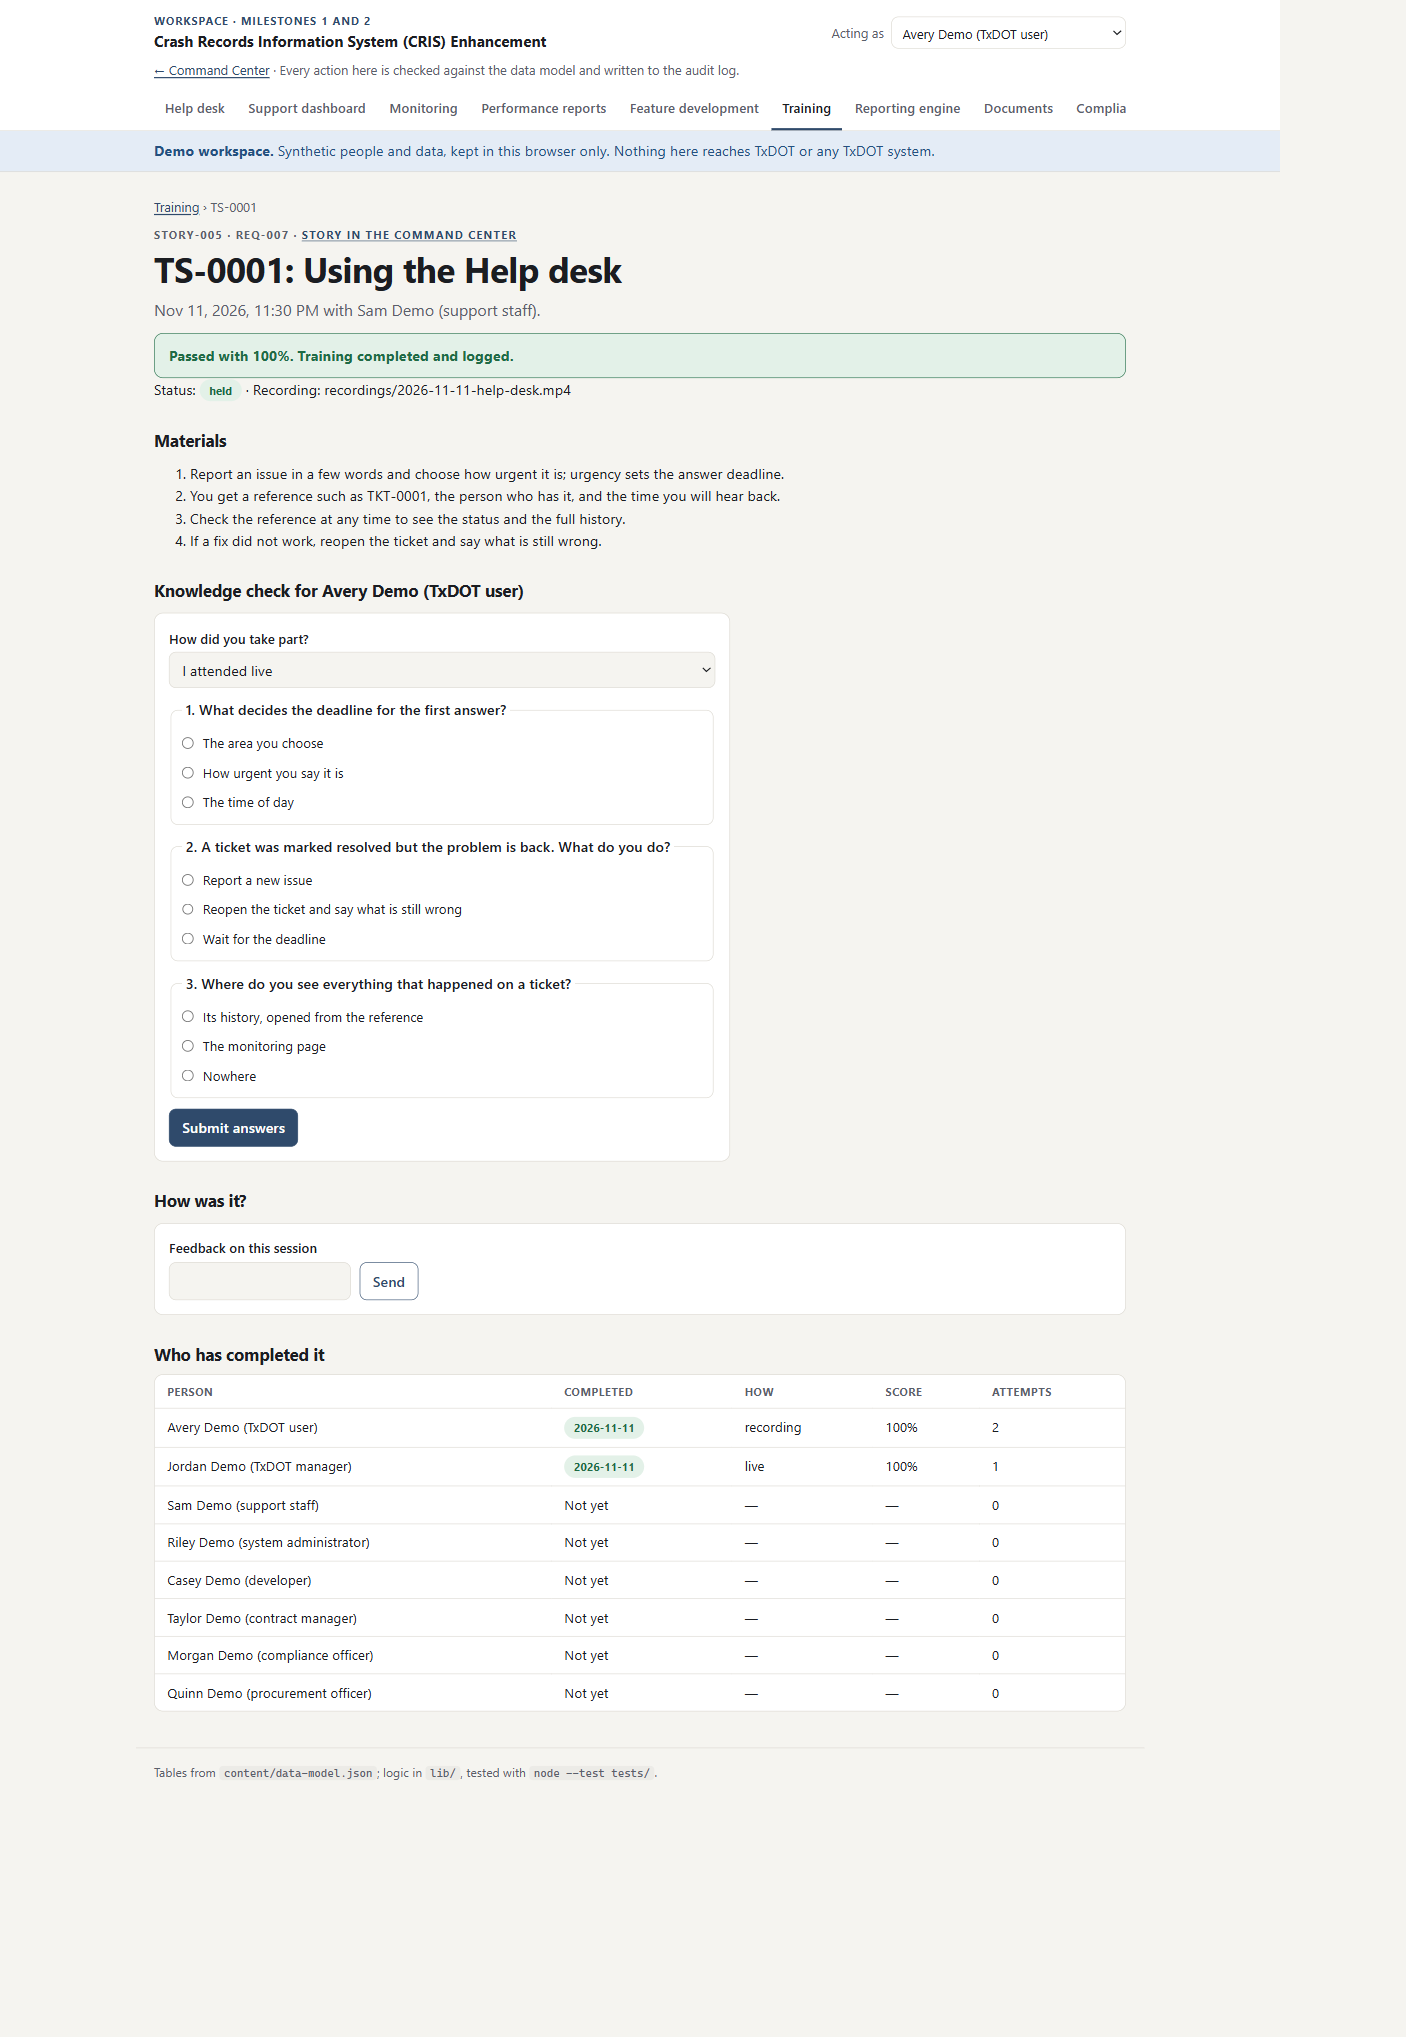
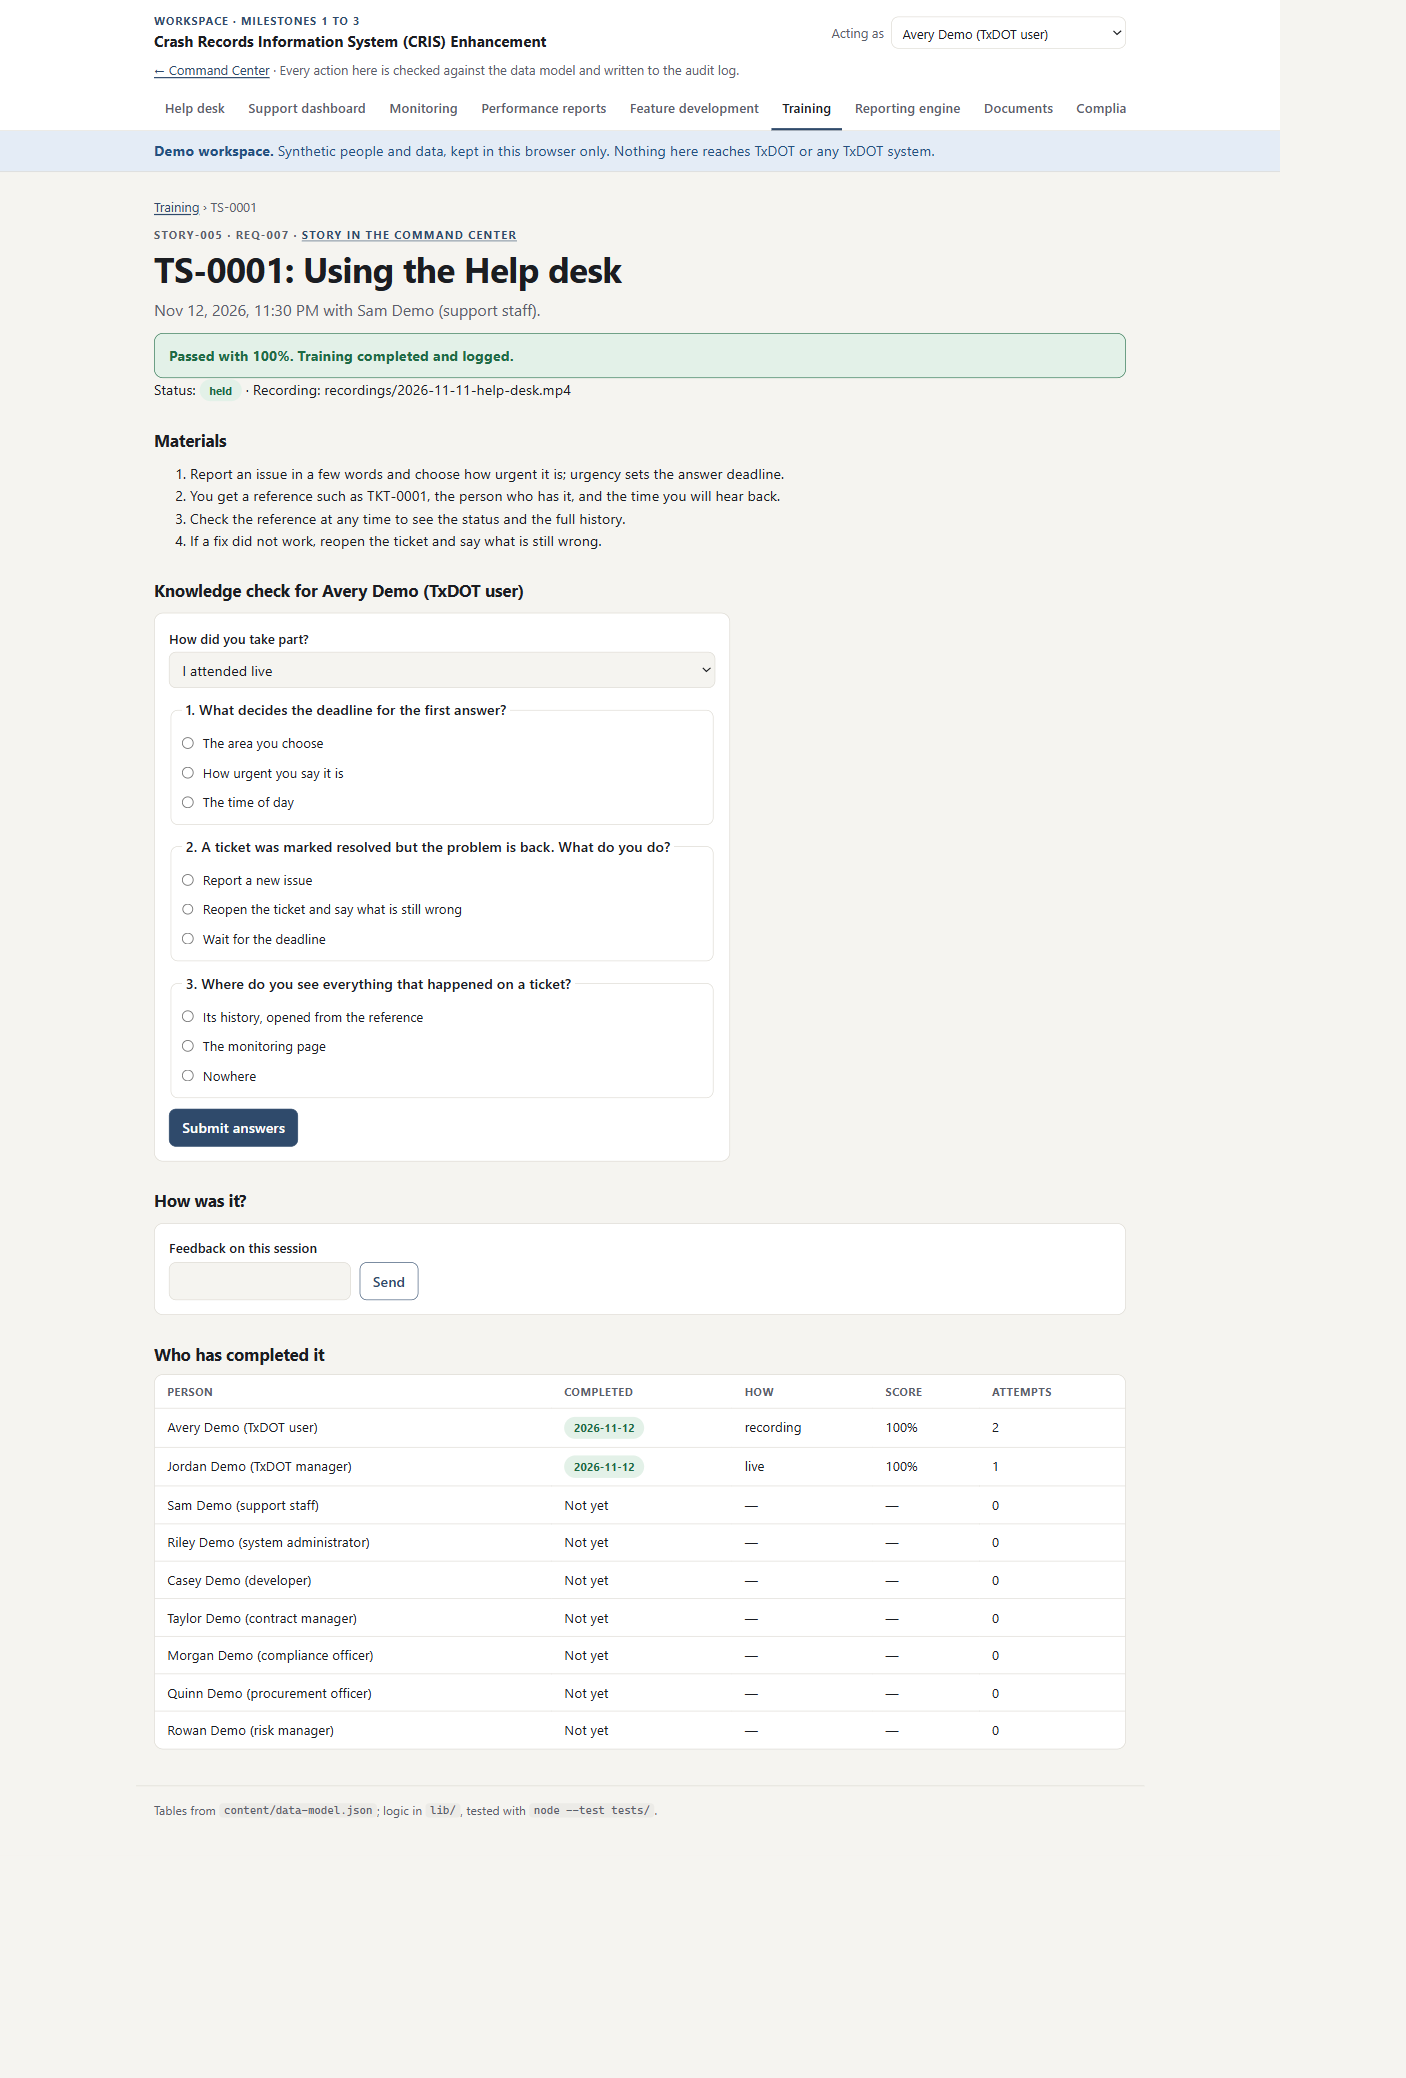
Workspace: groundwork for Milestone 3
- The data model gains the fields Milestone 3 needs, each marked with its story:
  submission receipts, an id and correction link on evaluation scores, and the
  risk source, score, evidence and review date.
- A synthetic risk manager joins the demo people.
- The document library lists only our own response's documents, so responses
  received from other respondents stay with their submission.
- The workspace loads the solicitation settings and the procurement rules, each
  optional; heat-map styles for the risk page.

diff --git a/workspace/js/main.js b/workspace/js/main.js
@@ -52,7 +52,7 @@ async function open() {
   ctx.peopleSeed = people.people;
   // Milestone 2 content. A file that cannot be read leaves its page saying so, rather than the whole workspace failing.
   const optional = (path) => json(path).catch((err) => ({ error: err.message }));
-  [ctx.materials, ctx.specs, ctx.compliance] = await Promise.all([optional('../content/training-materials.json'), optional('../content/report-specs.json'), optional('../content/compliance-rules.json')]);
+  [ctx.materials, ctx.specs, ctx.compliance, ctx.solicitation, ctx.procurement] = await Promise.all([optional('../content/training-materials.json'), optional('../content/report-specs.json'), optional('../content/compliance-rules.json'), optional('../content/solicitation.json'), optional('../content/procurement-rules.json')]);
   ctx.blobs = await openBlobs();
   await seedPeople(ctx.store, people.people);
   ctx.actor = readActor();
@@ -99,7 +99,7 @@ export function render({ moveFocus = false } = {}) {
     h(
       'header',
       { class: 'top' },
-      h('div', { class: 'top__row' }, h('a', { class: 'top__brand', href: '#/help-desk' }, h('span', { class: 'top__kicker' }, 'Workspace · Milestones 1 and 2'), h('span', { class: 'top__name' }, 'Crash Records Information System (CRIS) Enhancement')), actorPicker()),
+      h('div', { class: 'top__row' }, h('a', { class: 'top__brand', href: '#/help-desk' }, h('span', { class: 'top__kicker' }, 'Workspace · Milestones 1 to 3'), h('span', { class: 'top__name' }, 'Crash Records Information System (CRIS) Enhancement')), actorPicker()),
       h('p', { class: 'stamp' }, h('a', { href: '../' }, '← Command Center'), ' · Every action here is checked against the data model and written to the audit log.'),
       h('nav', { class: 'tabs', 'aria-label': 'Workspace pages' }, PAGES.map((p) => h('a', { href: `#/${p.id}`, 'aria-current': p.id === pageId ? 'page' : null }, p.label))),
     ),

diff --git a/workspace/workspace.css b/workspace/workspace.css
@@ -46,3 +46,12 @@ fieldset.field legend { font-weight: 600; padding: 0 4px; }
 fieldset.field label { display: block; padding: 3px 0; font-weight: 400; }
 fieldset.field label { display: flex; align-items: center; gap: 10px; }
 .field input[type="radio"], .field input[type="checkbox"] { width: auto; min-height: 0; padding: 0; margin: 0; flex: none; accent-color: var(--brand); }
+
+.bar__fill--muted { background: var(--info); }
+.heat { display: grid; grid-template-columns: minmax(90px, auto) repeat(3, minmax(64px, 120px)); gap: 6px; max-width: 520px; }
+.heat__corner, .heat__head { font-size: 0.8rem; font-weight: 600; color: var(--muted); display: flex; align-items: center; justify-content: center; text-transform: capitalize; }
+.heat__cell { border-radius: 8px; min-height: 56px; display: grid; place-items: center; font: 700 1.3rem var(--font); border: 1px solid transparent; }
+.heat__cell--ok { background: var(--ok-bg); color: var(--ok); border-color: var(--ok); }
+.heat__cell--warn { background: var(--warn-bg); color: var(--warn); border-color: var(--warn); }
+.heat__cell--bad { background: var(--bad-bg); color: var(--bad); border-color: var(--bad); }
+.heat__cell--empty { opacity: 0.45; font-weight: 400; }

diff --git a/lib/documents.js b/lib/documents.js
@@ -26,7 +26,7 @@ export function memoryBlobs() {
   return { put: async (k, bytes) => void m.set(k, new Uint8Array(bytes)), get: async (k) => (m.has(k) ? new Uint8Array(m.get(k)) : null), clear: async () => m.clear(), size: () => m.size };
 }
 
-async function hashBytes(bytes) {
+export async function hashBytes(bytes) {
   const d = await globalThis.crypto.subtle.digest('SHA-256', bytes);
   return [...new Uint8Array(d)].map((b) => b.toString(16).padStart(2, '0')).join('');
 }
@@ -102,7 +102,9 @@ export async function openDocument(store, blobs, { actor, id, clock = () => glob
 
 /** Current documents grouped by category, for the page. */
 export function library(store) {
-  const docs = store.list('ResponseDocument', (d) => d.status !== 'superseded');
+  // Only our own response's documents; responses received from other respondents (STORY-008) are listed with their submission.
+  const ours = new Set(store.list('SolicitationResponse', (r) => r.respondent === 'Colaberry').map((r) => r.id));
+  const docs = store.list('ResponseDocument', (d) => d.status !== 'superseded' && ours.has(d.response));
   return CATEGORIES.map((c) => ({ category: c, docs: docs.filter((d) => d.kind === c) }));
 }
 

diff --git a/lib/store.js b/lib/store.js
@@ -18,7 +18,7 @@ export class StoreError extends Error {
   }
 }
 
-const PREFIX = { Person: 'P', SupportTicket: 'TKT', TicketEvent: 'EVT', HealthSample: 'HS', Incident: 'INC', Report: 'RPT', Feedback: 'FB', FeatureChange: 'FC', MaintenanceWindow: 'MW', AuditEntry: 'AUD', TrainingSession: 'TS', TrainingAttendance: 'TA', SolicitationResponse: 'RSP', ResponseDocument: 'DOC', ComplianceCheck: 'CC' };
+const PREFIX = { Person: 'P', SupportTicket: 'TKT', TicketEvent: 'EVT', HealthSample: 'HS', Incident: 'INC', Report: 'RPT', Feedback: 'FB', FeatureChange: 'FC', MaintenanceWindow: 'MW', AuditEntry: 'AUD', TrainingSession: 'TS', TrainingAttendance: 'TA', SolicitationResponse: 'RSP', ResponseDocument: 'DOC', ComplianceCheck: 'CC', EvaluationScore: 'ES', ScoringCriterion: 'SC', Risk: 'RISK' };
 export const APPEND_ONLY = new Set(['TicketEvent', 'HealthSample', 'Report', 'AuditEntry']);
 const GENESIS = '0'.repeat(64);
 
